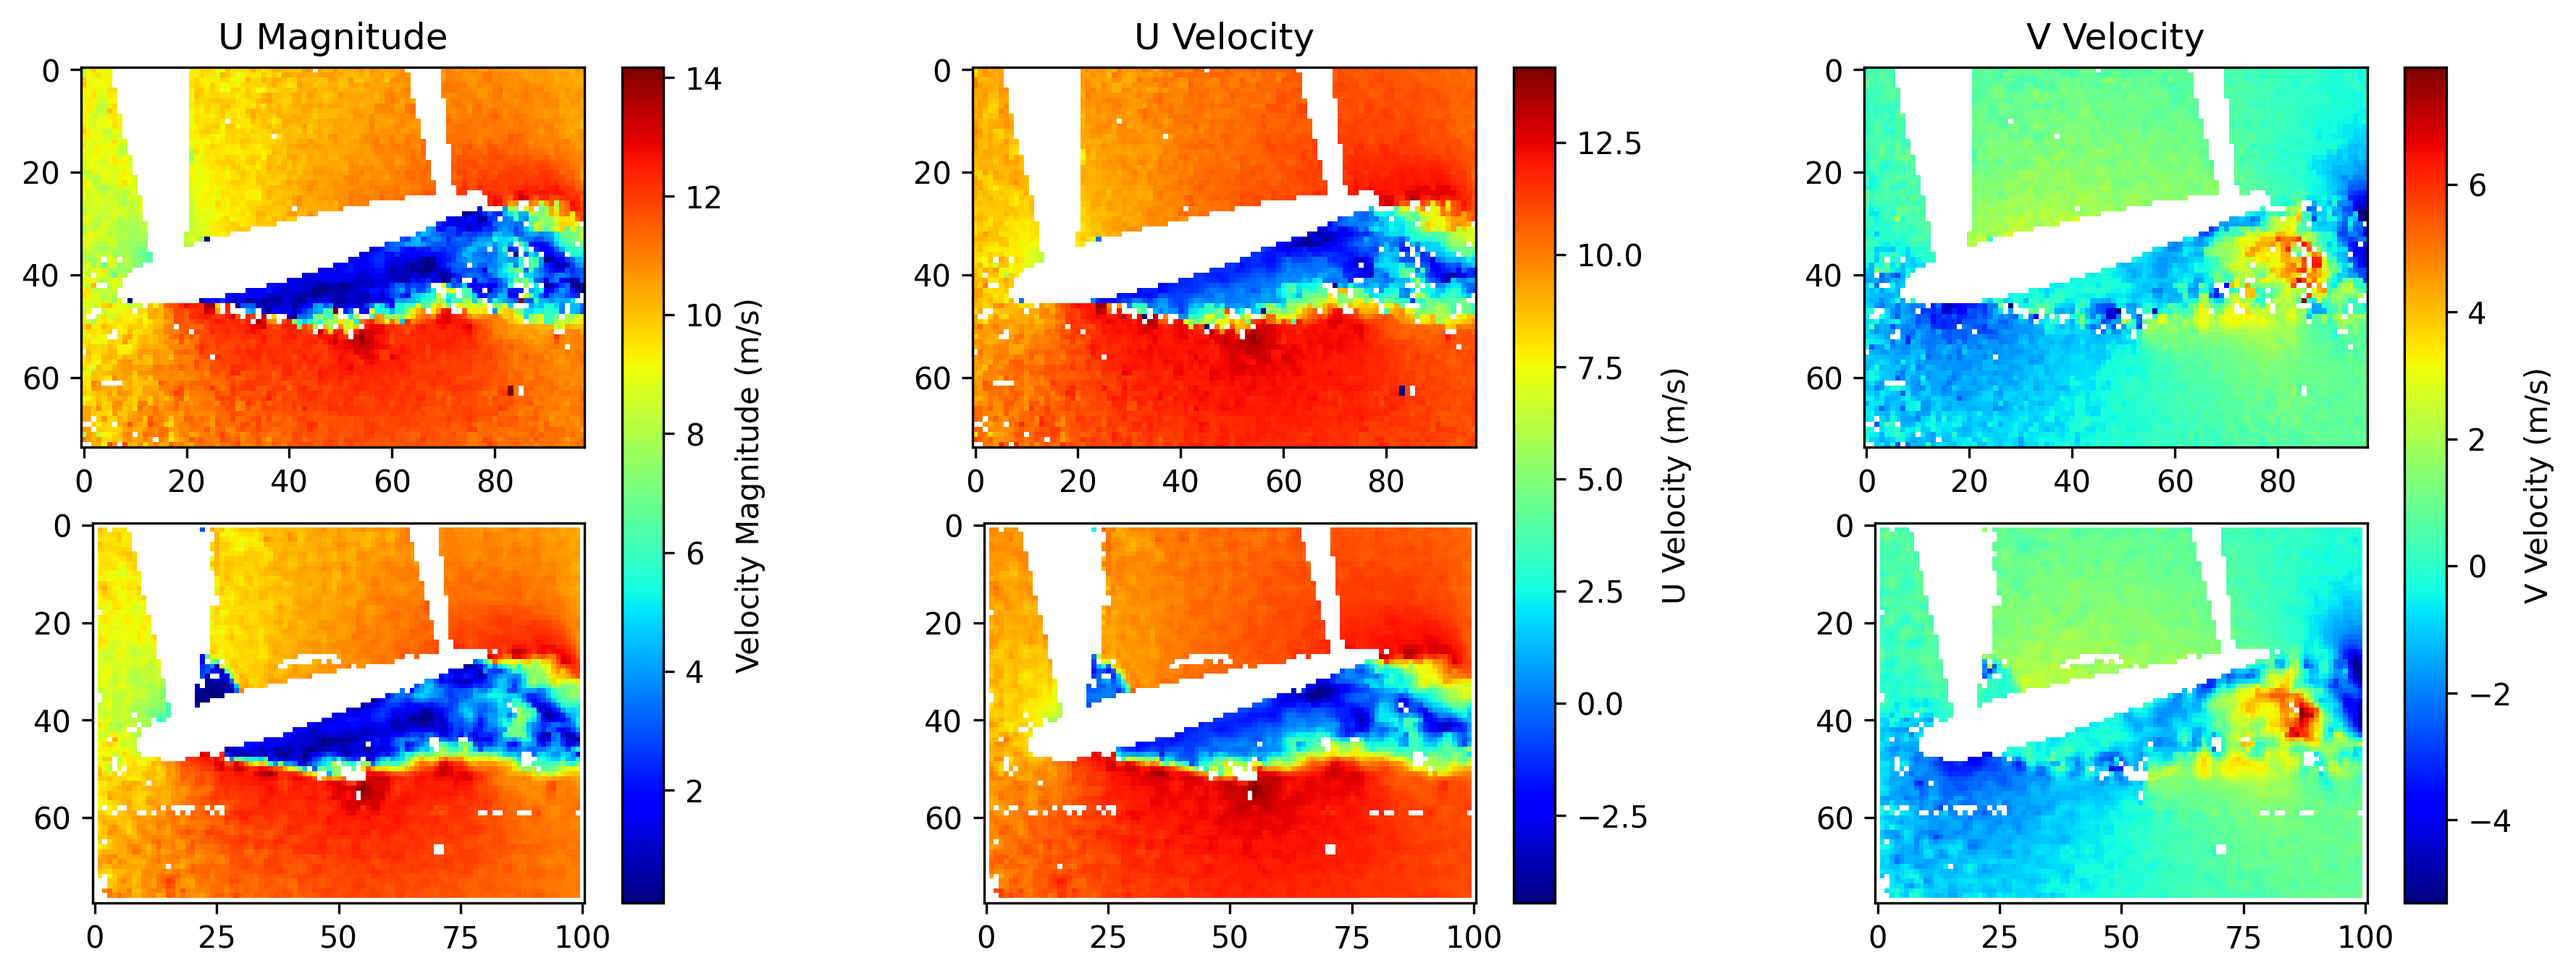
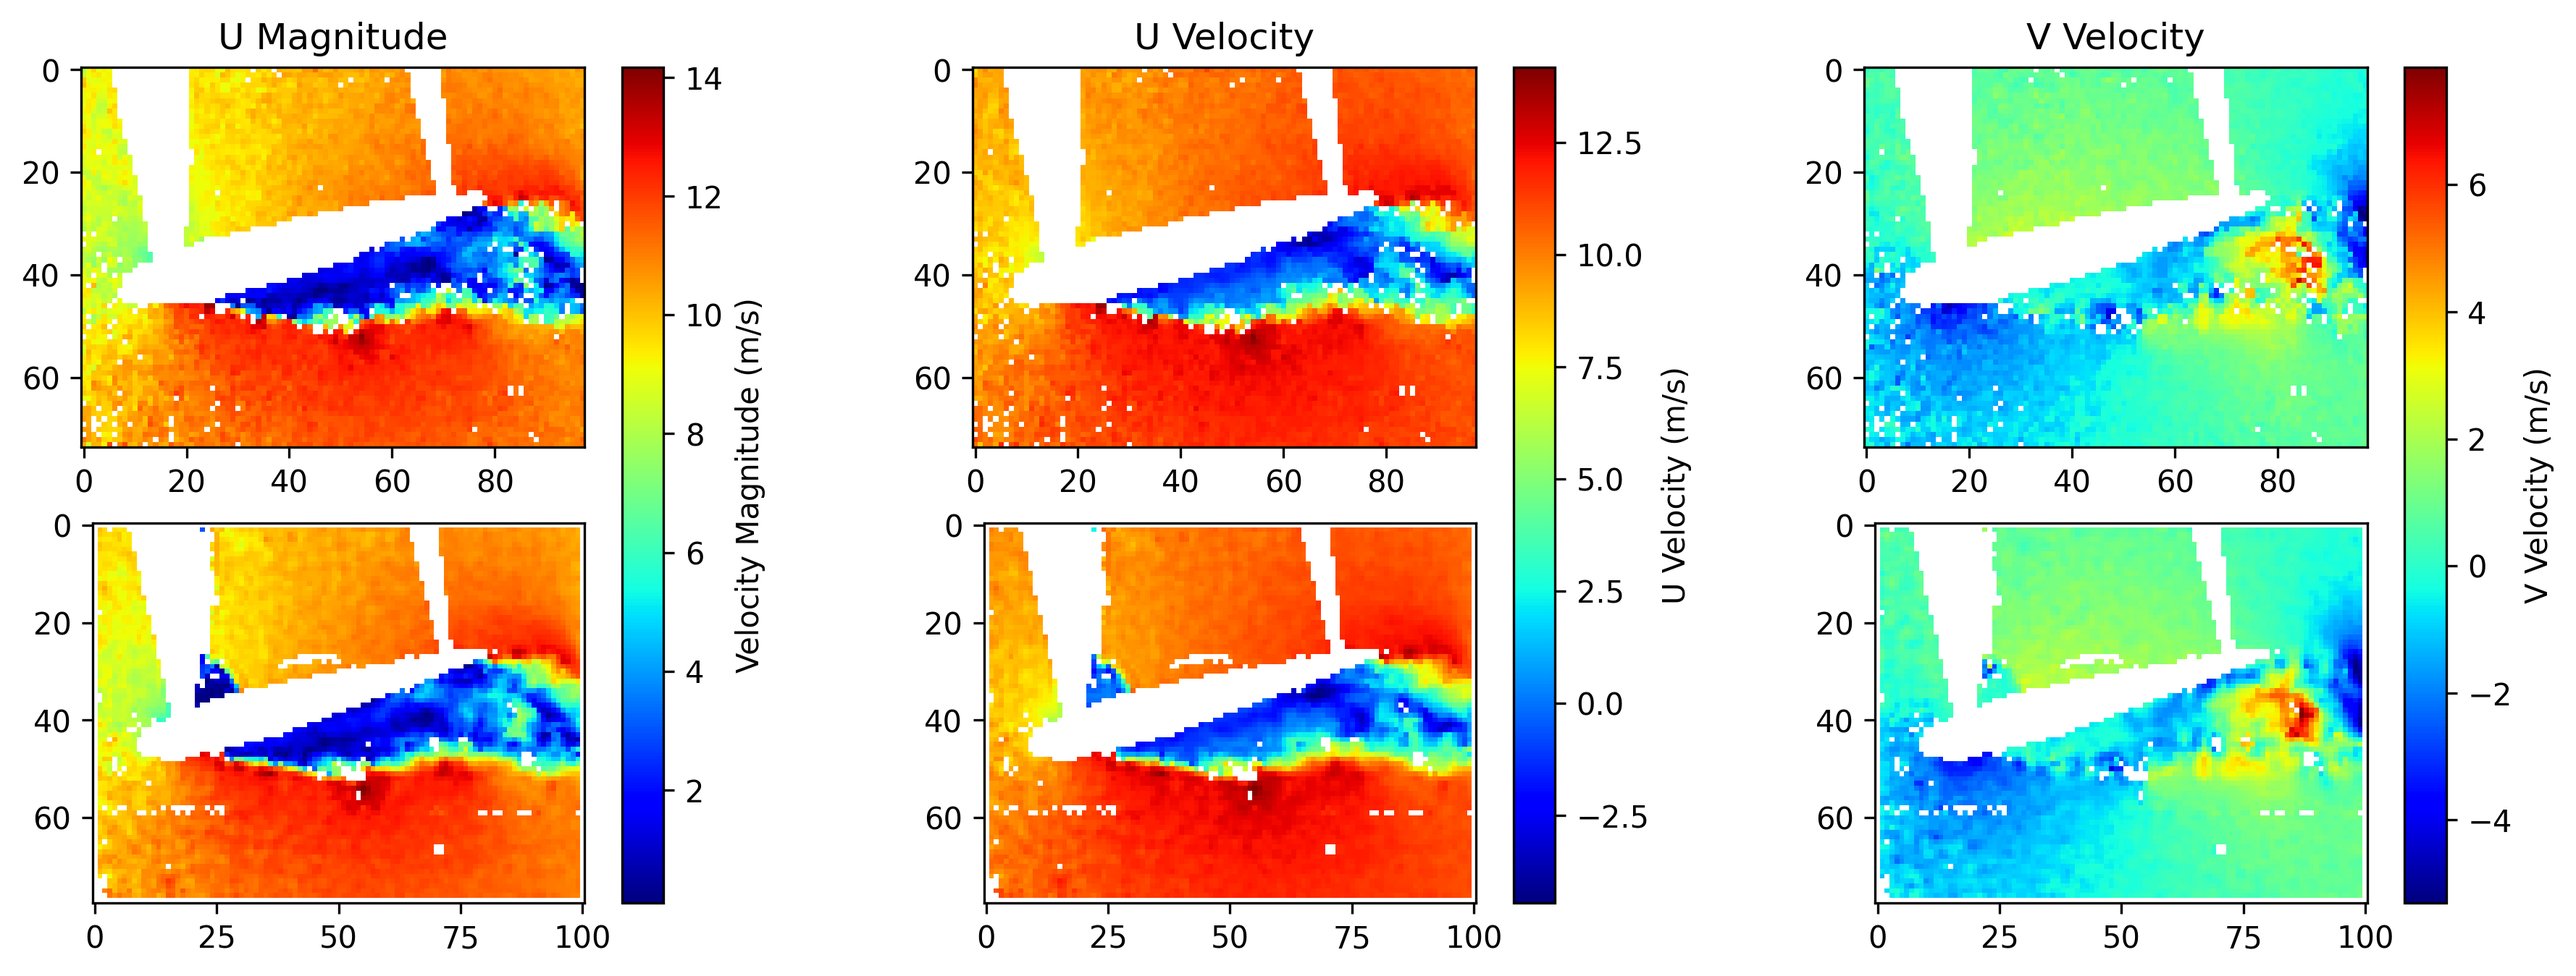
outlier detection

diff --git a/piv.py b/piv.py
@@ -127,8 +127,6 @@ def find_peak(cor):
     ln_phi_i_j_minus_1 = np.log(cor[i, j - 1])
     ln_phi_i_j_plus_1 = np.log(cor[i, j + 1])
 
-
-
     # Compute subpixel peak location using the Gaussian fit formula
     x_0 = j + (ln_phi_i_j_minus_1 - ln_phi_i_j_plus_1) / (
         2 * ln_phi_i_j_minus_1 - 4 * ln_phi_i_j + 2 * ln_phi_i_j_plus_1
@@ -138,8 +136,6 @@ def find_peak(cor):
     )
 
     return x_0, y_0
-
-
 
 def create_velocity_mask(image, mask_file='velocity_mask.npy'):
     """
@@ -450,27 +446,52 @@ def calculate_piv(pic_1, pic_2, window_size, l_px, dt, mask_ds=None, snr_thresho
             U[i_idx, j_idx] = u
     
     # Detect outliers in U, V based on their neighbors
-    # for i_idx in range(1, rows - 1):
-    #     for j_idx in range(1, cols - 1):
-    #         if mask_ds is not None and mask_ds[i_idx, j_idx]:
-    #             continue
-    #         # Get the 10x10 neighborhood
-    #         u_neigh = U[i_idx-1:i_idx+2, j_idx-1:j_idx+2].flatten()
-    #         v_neigh = V[i_idx-1:i_idx+2, j_idx-1:j_idx+2].flatten()
+    U_orig = U.copy()
+    V_orig = V.copy()
+    eps = 0.1
+    for i_idx in range(1, rows - 1):
+        for j_idx in range(1, cols - 1):
+            if mask_ds is not None and mask_ds[i_idx, j_idx]:
+                continue
+            # Get the 10x10 neighborhood
+            u_neigh = U[i_idx-1:i_idx+2, j_idx-1:j_idx+2].flatten()
+            v_neigh = V[i_idx-1:i_idx+2, j_idx-1:j_idx+2].flatten()
 
-    #         # Calculate the median and standard deviation
-    #         u_median = np.nanmedian(u_neigh)
-    #         v_median = np.nanmedian(v_neigh)
-    #         u_std = np.nanstd(u_neigh)
-    #         v_std = np.nanstd(v_neigh)
-    #         # Check if the current value is an outlier
-    #         if np.abs(U[i_idx, j_idx] - u_median) > 3 * u_std or np.abs(V[i_idx, j_idx] - v_median) > 3 * v_std:
-    #             U[i_idx, j_idx] = u_median
-    #             V[i_idx, j_idx] = v_median
-    #             # snrs[i_idx, j_idx] = np.nan
+            # extract the 3x3 neighborhood excluding the center
+            mask = np.ones((3,3), dtype=bool)
+            mask[1,1] = False  # Center element
+            u_neigh_2 = U[i_idx-1:i_idx+2, j_idx-1:j_idx+2][mask].flatten()
+            v_neigh_2 = V[i_idx-1:i_idx+2, j_idx-1:j_idx+2][mask].flatten()
+
+            # Calculate the median and standard deviation
+            u_median = np.nanmedian(u_neigh_2)
+            v_median = np.nanmedian(v_neigh_2)
+
+            # Calculate the fluctuation relative to the median
+            u_fluct = U[i_idx, j_idx] - u_median
+            v_fluct = V[i_idx, j_idx] - v_median
+
+            # Calculate the residual
+            u_res = u_neigh_2 - u_median
+            v_res = v_neigh_2 - v_median
+
+            # Calculate the median of the absolute residuals
+            u_res_median = np.nanmedian(np.abs(u_res))
+            v_res_median = np.nanmedian(np.abs(v_res))
+
+            # Calculate the normalized fluctuations
+            u_norm_fluct = np.abs(u_fluct / (u_res_median + eps))
+            v_norm_fluct = np.abs(v_fluct / (v_res_median + eps))
+            norm_fluct = np.sqrt(u_norm_fluct**2 + v_norm_fluct**2)
+
+            # Check if the current value is an outlier
+            if norm_fluct > 3.5:
+                U[i_idx, j_idx] = np.nan
+                V[i_idx, j_idx] = np.nan
+                # snrs[i_idx, j_idx] = np.nan
 
 
-    return U, V, X, Y, snrs
+    return U, V, X, Y, snrs, U_orig, V_orig
 
 
 def calculate_piv_multipass(pic_1, pic_2, window_size, l_px, dt, passes, mask_ds=None, snr_threshold=1.07, overlap=0):
@@ -700,8 +721,7 @@ def calculate_piv_multipass(pic_1, pic_2, window_size, l_px, dt, passes, mask_ds
 
     return U, V, X, Y, snrs_map
 
-#6, 
-snr_threshold = 1.2
+snr_threshold = 1.
 reference_data = np.loadtxt('data\\alpha_15_100_PIV_MP(3x32x32_50ov)=unknown\\B00006.dat', skiprows=3)
 refX = reference_data[:, 0]
 refY = reference_data[:, 1]
@@ -713,7 +733,7 @@ dt = 70e-6
 window_size = 32
 # Example usage (replace the manual PIV computation with function call):
 mask, mask_ds = apply_velocity_mask_to_piv(window_size, 50)
-U, V, X, Y, snrs = calculate_piv(pic_1, pic_2, window_size, l_px, dt, mask_ds, snr_threshold, 50)
+U, V, X, Y, snrs, U_orig, V_orig = calculate_piv(pic_1, pic_2, window_size, l_px, dt, mask_ds, snr_threshold, 50)
 # U, V, X, Y, snrs = calculate_piv_multipass(pic_1, pic_2, window_size, l_px, dt,3, mask_ds, snr_threshold, 50)
 U[mask_ds==1], V[mask_ds==1] = np.nan, np.nan
 
